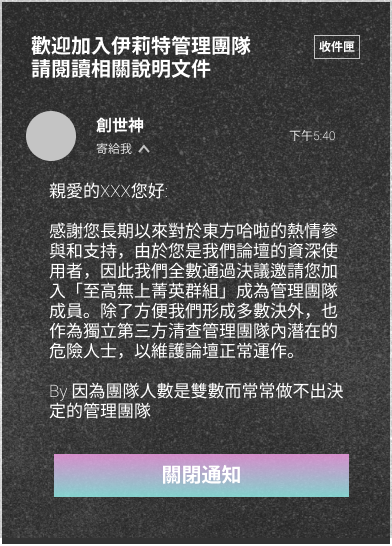
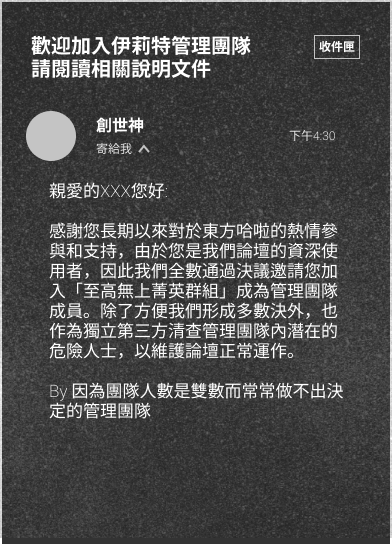
fixed some bugs

Changed region(s): [[0.1224, 0.8095, 0.8878, 0.9341]]

diff --git a/110project/src/components/Mail.js b/110project/src/components/Mail.js
@@ -1,6 +1,10 @@
 import React, {useEffect, useState} from 'react'
 import '../styles/popup.css'
 import mail from '../picture/mail.png'
+import mail1 from '../picture/mail1.png'
+import mail2 from '../picture/mail2.png'
+import mail3 from '../picture/mail3.png'
+
 /*
 const imageMap = {
   1: ''
@@ -8,39 +12,16 @@ const imageMap = {
 }
 */
 //const image = imageMap[]
-const EndList = [
-  {
-    25: "創世神殞落",
-    title:"驚！！！原來，被盜的其實是他....?",
-    pic:"./"
-  },
-  {
-    27: "自身難保",
-    title:"驚！！！原來，被盜的其實是他....?",
-    pic:"./"
-  },
-  {
-    28:"特洛伊木馬",
-    title:"驚！！！原來，被盜的其實是他....?",
-    pic:"./"
-  },
-  {
-    29:"縱虎歸山",
-    title:"感謝您這段時間的參與，我們還想邀請你......",
-    pic:"./"
-  },
-  {
-    30:"驅逐內鬼",
-    title:"臨時加開的決策會議，需要你的親身相挺",
-    pic:"./"
-  },
-  {
-    31:"以牙還牙",
-    title:"謝謝你的幫忙，祝你有個美好的一天。",
-    pic:"./"
-  }
-]
+const EndList = {
+  25: "創世神殞落",
+  27: "自身難保",
+  28: "特洛伊木馬",
+  29: "縱虎歸山",
+  30: "驅逐內鬼",
+  31: "以牙還牙"
+}
 
+console.log(EndList[1]);
 
 //信箱
 const Mail = (props) => {
@@ -54,26 +35,50 @@ const Mail = (props) => {
 //打開後的信箱
 const Mailbox = (props) => {
 
+  const [mailText, openMailText] = useState(0);
+  const [url,setUrl] = useState('');
+
+  useEffect(() => {
+    console.log("狀態改變")
+    if(mailText===1){
+      setUrl(mail1);
+    }else if(mailText===2){
+      setUrl(mail2);
+    }else if(mailText===3){
+      setUrl(mail3);
+    }
+    //let url = 'url("../picture/mail' + mailText+ '.png")';
+    //console.log(url);
+  },[mailText])
+
   return (props.trigger)?(
       <div className="openmail">
+        {mailText===0?(
+          <>
           <div className="mailheader">
           <h2 className="mailfont">信夾匣</h2>
           </div>
           <div style={{overflowY:'scroll', height: '300px'}}>
-          <MailLine mission={props.mission} setMission={props.setMission}/>
+          <MailLine mission={props.mission} setMission={props.setMission} mailText={mailText} openMailText={openMailText}/>
           </div>
           <div className='mailClose'>
           <button className="mailBtn" onClick={()=>props.mailhandler(false)}>關閉信件</button>
           </div>
+          </>
+        ):(
+          <div className='mailOne' style={{ backgroundImage: `url(${url})`}}>
+          <button type='button' className='mailTextBtn' onClick={()=>openMailText(0)}>關閉通知</button>
+          </div>
+        )}
       </div>   
   ):'';
 
 }
 
+/*信件內容
 
 const Mailtext = (props) => {
 
-  
   return (
     <div className='openmail'>
     <div className='mailOne'>
@@ -82,30 +87,21 @@ const Mailtext = (props) => {
     </div>
   )
 }
+*/
 
 //信件瀏覽
 const MailLine = (props) =>{
 
-  const [mailText, openMailText] = useState(0);
 
   let END = localStorage.getItem('END');
+  let Mission1 = JSON.parse(localStorage.getItem("mission1"));
+  let Mission2 = JSON.parse(localStorage.getItem("mission2"));
 
   useEffect(() => {
     console.log("結局為",END);
   }, [END]);
 
 
-  /*
-  
-  if(mailText===1){
-    <div className="openmail">
-    <div className='mailOne'>
-    <button type='button' className='mailTextBtn' onClick={()=>props.openMailText(0)}>關閉通知</button>
-    </div>
-    </div>
-  }
-
-*/
 
   return(
     <>
@@ -117,27 +113,27 @@ const MailLine = (props) =>{
       <p>嫌犯揭曉</p>
       </div>
     </div>
-    <div className='mailline' style={{display:props.mission>=3?'':'none'}} onClick={()=>openMailText(3)}>
+    <div className='mailline' style={{display:Mission2!==null?'':'none'}} onClick={()=>props.openMailText(3)}>
       <div className='mailcircle'></div>
       <div className='mailtext'>
       <h3 style={{display:'inline'}}>創世神</h3>
-      <p style={{display:'inline', float:'right', marginRight:'1rem'}}>下午5:40</p> 
+      <p style={{display:'inline', float:'right', marginRight:'1rem'}}>上午10:00</p> 
       <p>真相即將水落石出<br/>揪出壞分子的最後一步</p>
       </div>
     </div>
-    <div className='mailline' style={{display:props.mission>=2?'':'none'}} onClick={()=>openMailText(2)} >
+    <div className='mailline' style={{display:Mission1!==null?'':'none'}} onClick={()=>props.openMailText(2)} >
       <div className='mailcircle'></div>
       <div className='mailtext'>
       <h3 style={{display:'inline'}}>創世神</h3>
-      <p style={{display:'inline', float:'right', marginRight:'1rem'}} >下午5:40</p> 
+      <p style={{display:'inline', float:'right', marginRight:'1rem'}} >上午7:00</p> 
       <p>案情尚未明朗<br/>被控制的是你、妳，還是他？</p>
       </div>
     </div>
-    <div className='mailline' onClick={()=>openMailText(1)} >
+    <div className='mailline' onClick={()=>props.openMailText(1)} >
       <div className='mailcircle'></div>
       <div className='mailtext'>
       <h3 style={{display:'inline'}}>創世神</h3>
-      <p style={{display:'inline', float:'right', marginRight:'1rem'}}>下午5:40</p> 
+      <p style={{display:'inline', float:'right', marginRight:'1rem'}}>下午4:30</p> 
       <p>歡迎加入伊莉特管理團隊<br/> 請閱讀相關說明文件</p>
       </div>
     </div>
@@ -147,4 +143,4 @@ const MailLine = (props) =>{
 }
 
 
-export {Mail, Mailbox, Mailtext, MailLine}
+export {Mail, Mailbox, MailLine}

diff --git a/110project/src/pages/End.js b/110project/src/pages/End.js
@@ -1,14 +1,20 @@
 import React from 'react'
+import { useNavigate } from "react-router-dom";
 import end25 from '../picture/end25.png'
 
 const End = () => {
 
     const end = Number(localStorage.getItem('End'));
+    const navigate = useNavigate();
     console.log('end'+end);
     let background = end25;
-    
 
-  
+    const toindex = () =>{
+        navigate('/');
+    }
+
+    window.setTimeout(toindex, 10000);
+
 
   return (
     <div className='end' style={{backgroundImage: `url('${background}')` }} ></div>

diff --git a/110project/src/pages/Signup.js b/110project/src/pages/Signup.js
@@ -38,7 +38,7 @@ const Signup = ({user, setUser}) => {
             <h3 className='signupText'>建立帳號</h3>
             <form action="game" onSubmit={addAccount} className='signupForm'>
             <div className='input'>
-            <input type="text" name="account" placeholder='   帳號 :'/>
+            <input type="text" name="account" placeholder='   暱稱 :'/>
             </div>
             <div className='input'>
             <input type="password" name="password" placeholder='   密碼 :'/> 

diff --git a/110project/src/styles/popup.css b/110project/src/styles/popup.css
@@ -131,7 +131,6 @@
 }
 
 .mailOne{
-	background-image: url('../picture/mail1.png') ;
 	background-size: contain;
 	background-repeat: no-repeat;
 	position: relative;
@@ -141,10 +140,10 @@
 
 .mailTextBtn{
 	position:absolute;
-	top:83%;
-	left:2.7rem;
-	width:15.5rem;
-	height:2.5rem;
+	top:84%;
+	left:2.1rem;
+	width:16.5rem;
+	height:2.3rem;
 	color:#FFF;
 	padding-top:0.1rem;
 	border:none;  

diff --git a/110project/src/pages/Firstpage.js b/110project/src/pages/Firstpage.js
@@ -8,9 +8,7 @@ const Firstpage = () => {
   const navigate = useNavigate();
 
   const navEventHandler = (e) => {
-    console.log(e.key)
     if(e.key === 'Enter'){
-      console.log('click');
       navigate('/signup');
       localStorage.clear(); 
       window.location.reload();
